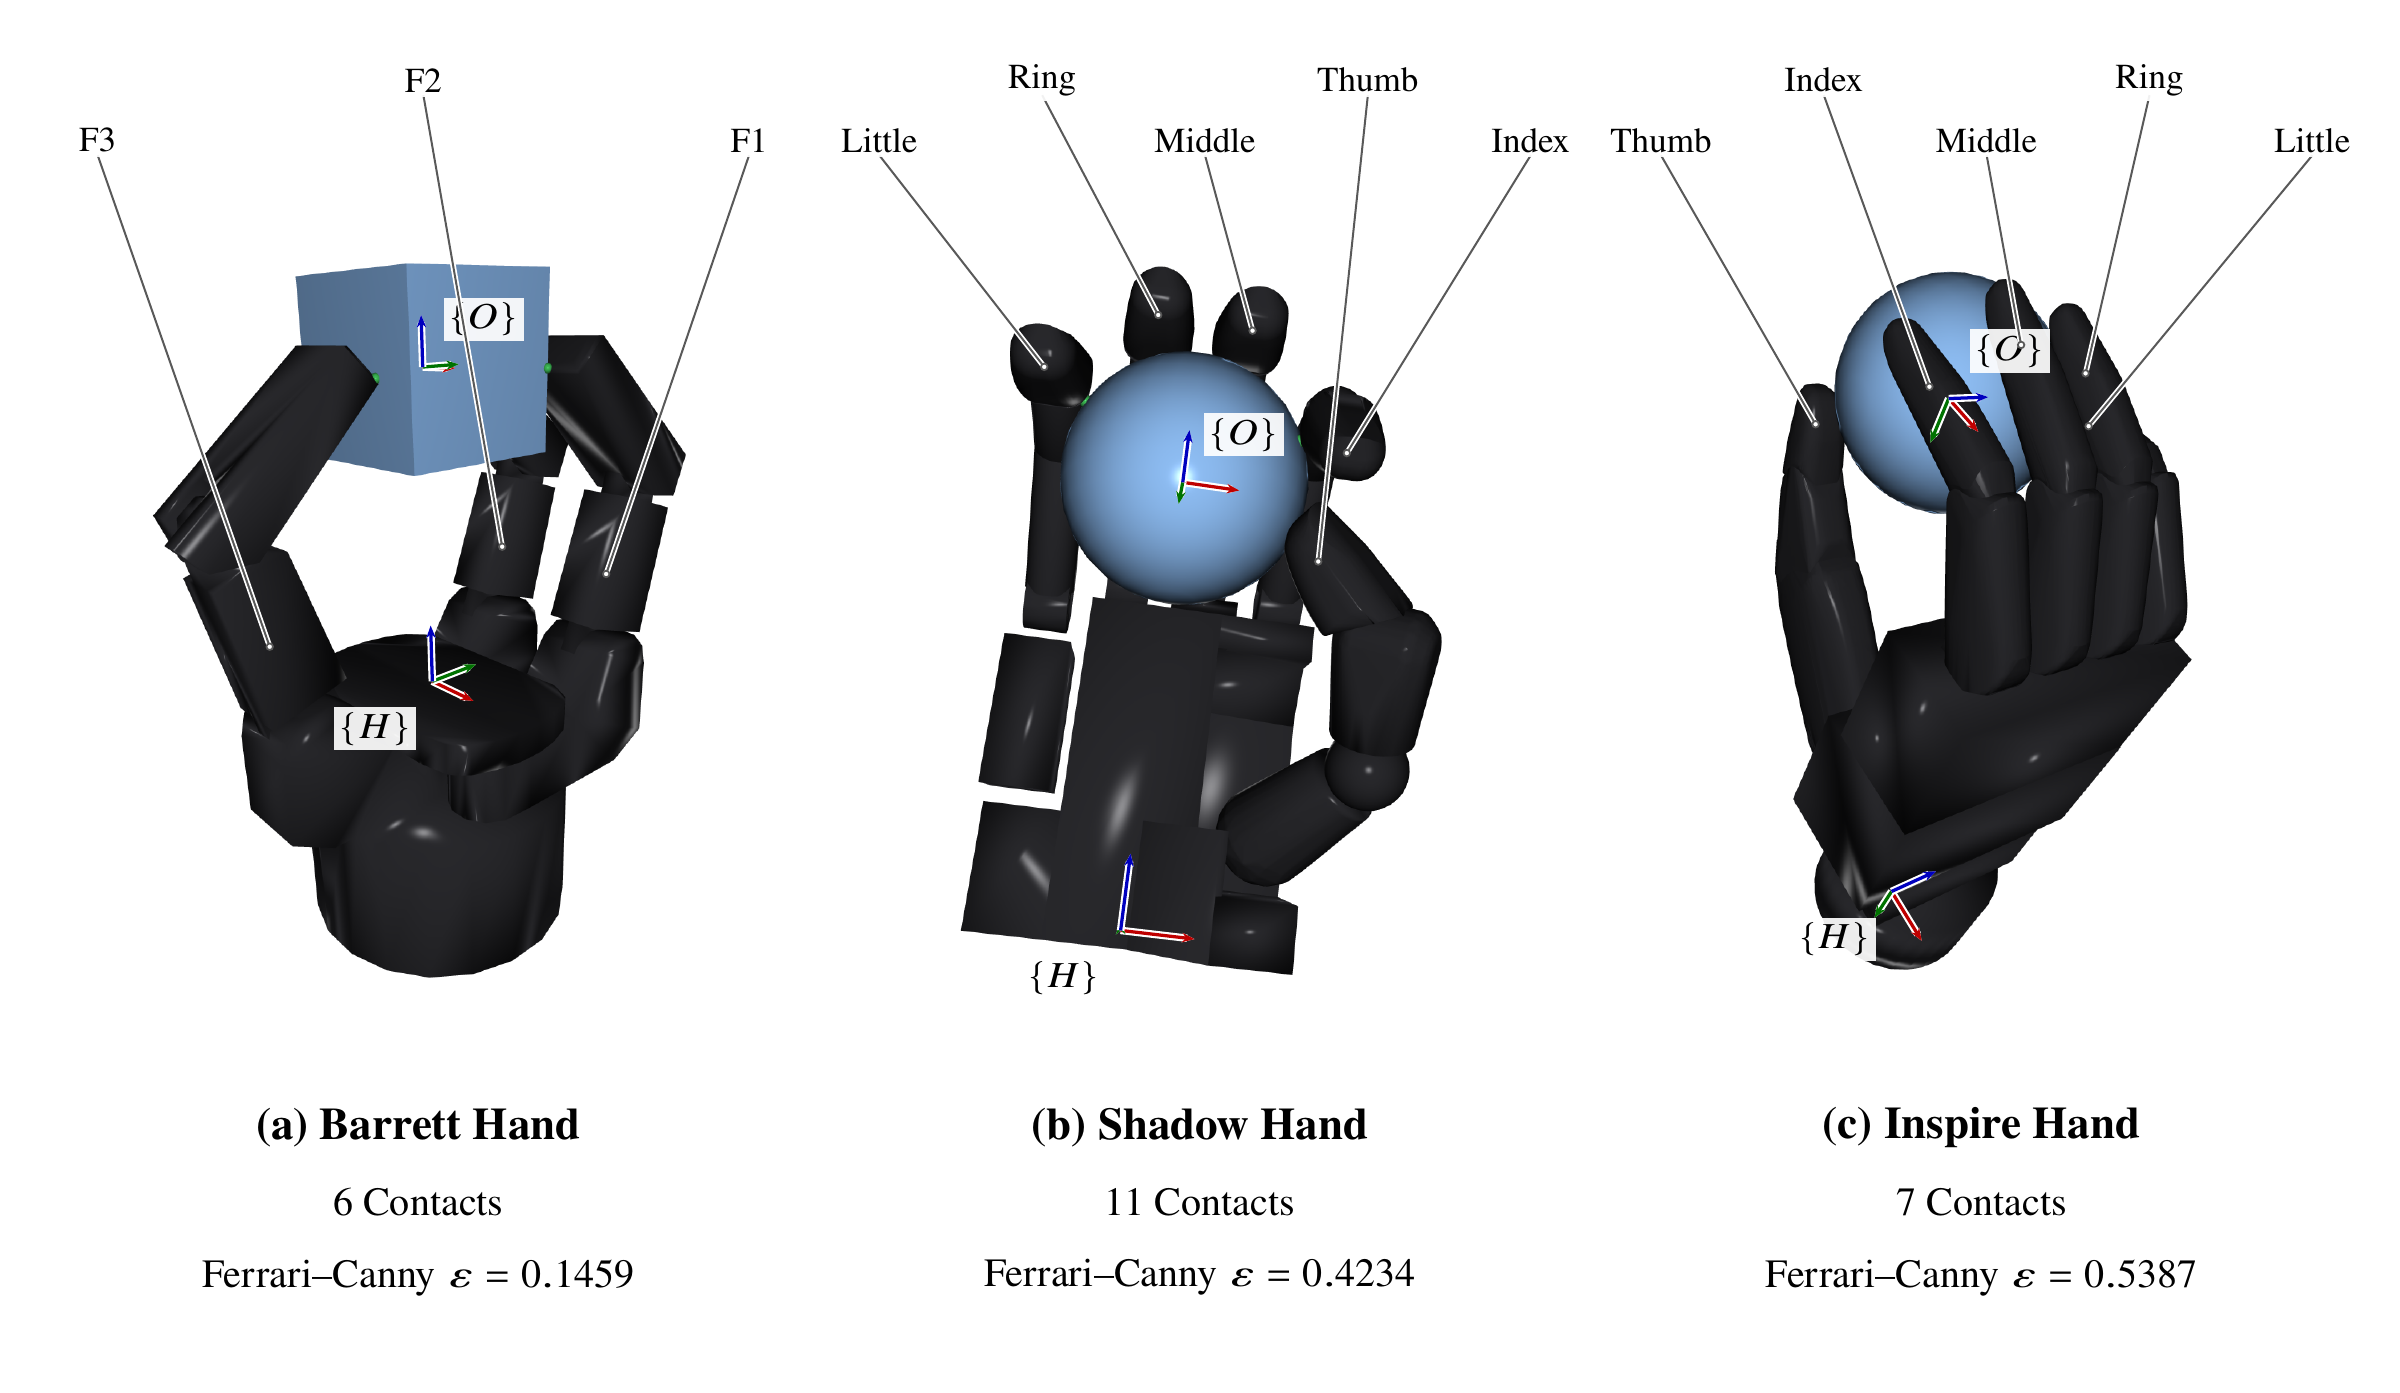
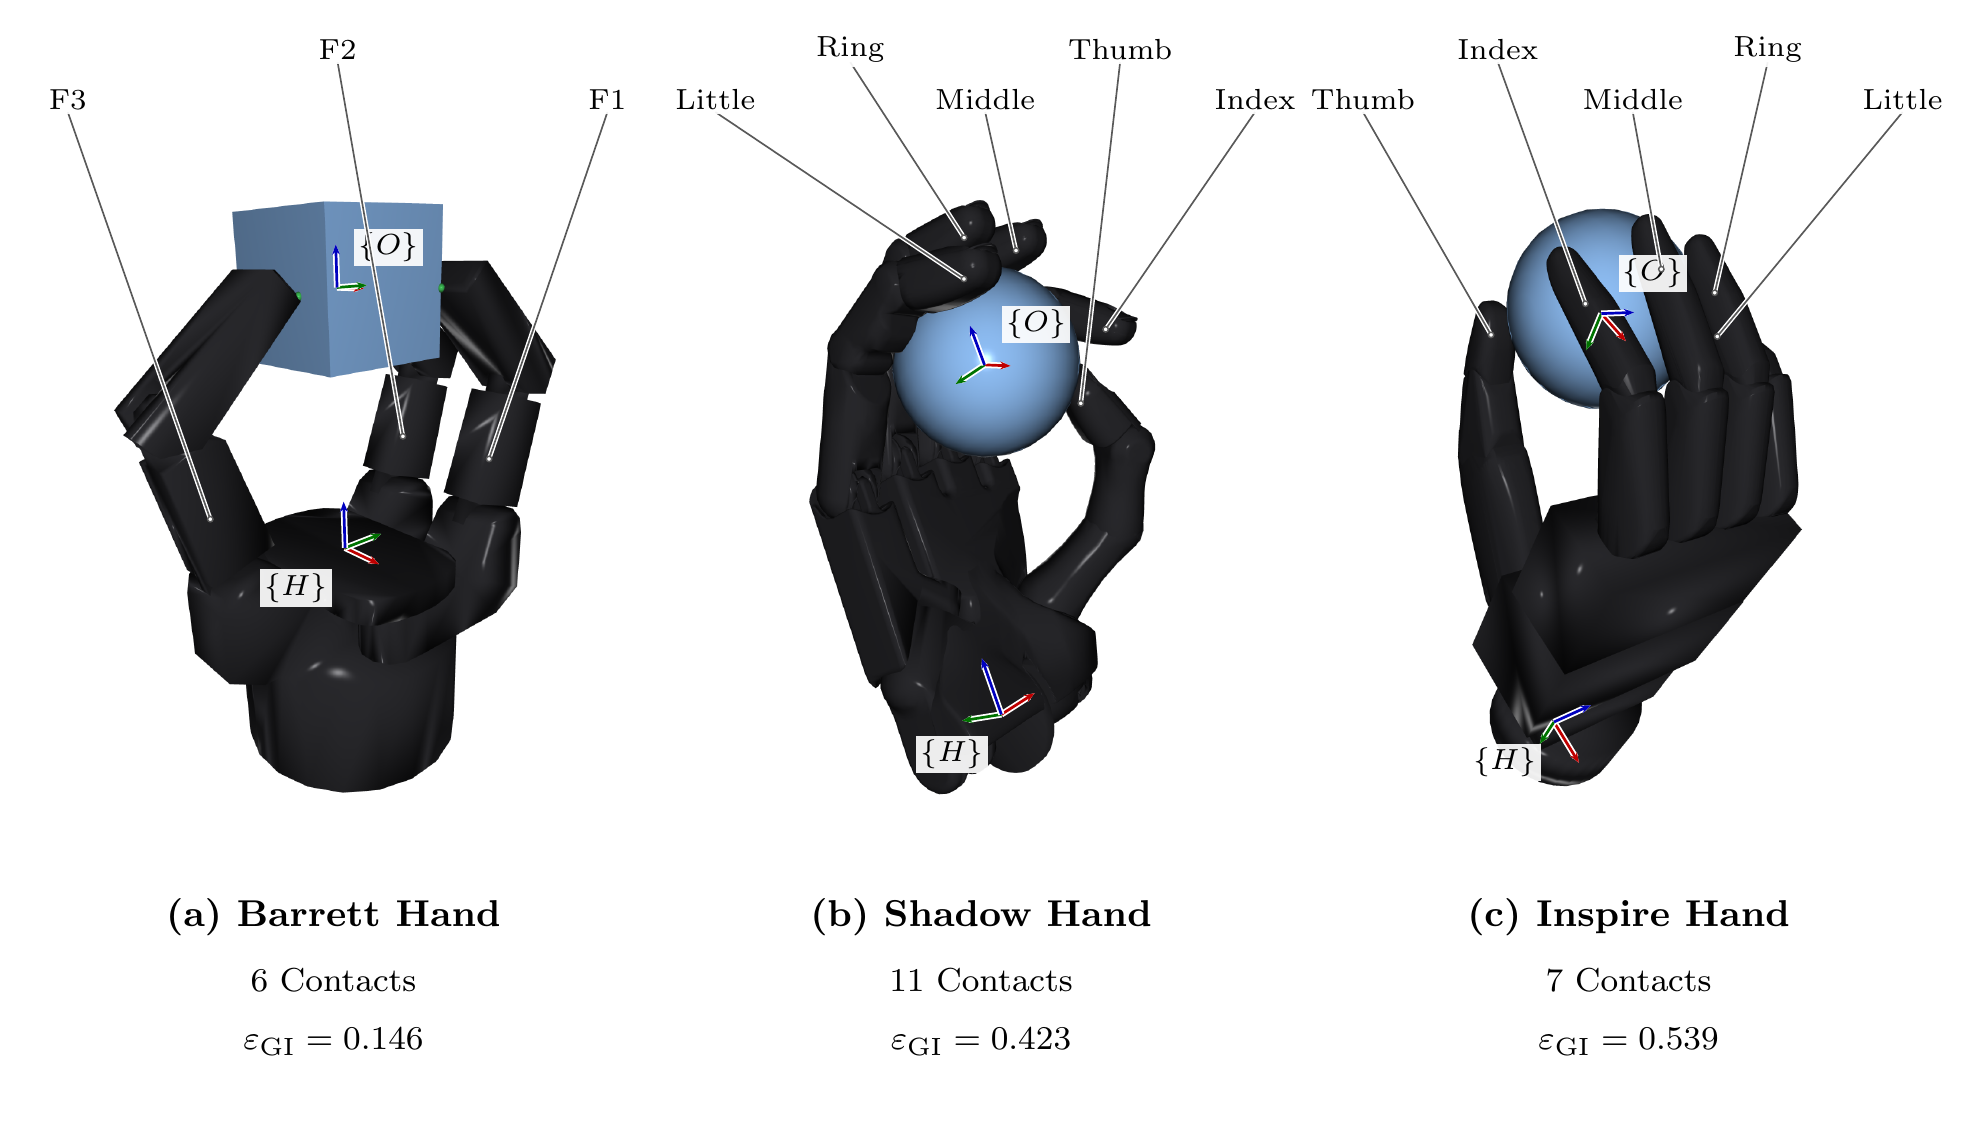
Deploy published site from website-src@ec822579888d5b9f4bd518289c53651ad49b02ca

diff --git a/index.html b/index.html
@@ -129,17 +129,17 @@
               <video class="home-demo-video"
                 src="videos/equidexflow_home_demo.mp4?v=dark-centered-raised-footer-20260918" poster="videos/equidexflow_home_demo_poster.jpg?v=dark-centered-raised-footer-20260918"
                 controls muted playsinline preload="none" aria-label="EquiDexFlow pipeline and hardware demonstrations: grasp prediction, contact-based retargeting to the LEAP Hand, and refinement; grasp renders paired with box, cube, mustard bottle, meat can, cylinder, and tennis-ball hardware executions" controlslist="nodownload"></video>
-              <img class="home-demo-image" data-demo-image src="images/graspit-py-supported-hands.png" alt="GraspIt! grasps with the Barrett, Shadow, and Inspire hands, showing contacts and hand and object coordinate frames" loading="lazy" decoding="async" hidden>
+              <img class="home-demo-image" data-demo-image src="images/graspit-py-supported-hands.png?v=ff6b2540e51e" alt="Barrett, Shadow, and Inspire grasp configurations with labeled fingers and hand and object coordinate frames" loading="lazy" decoding="async" hidden>
             </div>
             <div class="home-demo-chapters" role="group" aria-label="Grasp Planning Demonstrations" hidden>
               <button type="button" data-demo-source="videos/equidexflow_home_demo.mp4?v=dark-centered-raised-footer-20260918" data-demo-poster="videos/equidexflow_home_demo_poster.jpg?v=dark-centered-raised-footer-20260918" data-demo-duration="18.4" aria-pressed="true">EquiDexFlow</button>
               <button id="dexreach-home-demo" type="button" data-demo-start-chapter="1" data-demo-source="videos/dexreach_overview.mp4?v=a0368a940d2b" data-demo-poster="videos/dexreach_overview_poster.jpg?v=ee196aa75078" data-demo-duration="60.933333" aria-pressed="false">DexReach</button>
-              <button id="graspit-py-home-demo" type="button" data-demo-start-chapter="2" data-demo-type="image" data-demo-source="images/graspit-py-supported-hands.png" data-demo-alt="GraspIt! grasps with the Barrett, Shadow, and Inspire hands, showing contacts and hand and object coordinate frames" data-demo-duration="12" aria-pressed="false">graspit-py</button>
+              <button id="graspit-py-home-demo" type="button" data-demo-start-chapter="2" data-demo-type="image" data-demo-source="images/graspit-py-supported-hands.png?v=ff6b2540e51e" data-demo-alt="Barrett, Shadow, and Inspire grasp configurations with labeled fingers and hand and object coordinate frames" data-demo-duration="12" aria-pressed="false">graspit-py</button>
             </div>
             <figcaption>
               <span data-demo-chapter="0" data-demo-caption-start="0">SE(3)-Equivariant, Reach-Aware Grasp Synthesis · <a href="equidexflow/#grasp-synthesis-and-hardware-execution">EquiDexFlow Project Page</a></span>
               <span data-demo-chapter="1" data-demo-caption-start="0" hidden>GPU-Accelerated Whole-Body Grasp and Manipulation Planning · <a href="dexreach/">DexReach Project Page</a><br>Built on <a href="https://github.com/NVlabs/curobo" target="_blank" rel="noopener">cuRobo</a>. Isaac Lab demonstrations with Franka-Ability and dual Franka-Ability, xArm7–LEAP pick-and-place, and G1–Dex3 box grasping and lifting.</span>
-              <span data-demo-chapter="2" data-demo-caption-start="0" hidden>Grasp Synthesis and Evaluation with graspit-py · <a href="https://clintonenwerem.com/graspit-py/">Documentation</a> · <a href="https://github.com/coenwerem/graspit-py" target="_blank" rel="noopener">GitHub</a><br>GraspIt! closures with the Barrett, Shadow, and Inspire hands, including contact locations, coordinate frames, and Ferrari–Canny grasp quality.</span>
+              <span data-demo-chapter="2" data-demo-caption-start="0" hidden>Grasp Synthesis and Evaluation with graspit-py · <a href="https://clintonenwerem.com/graspit-py/">Documentation</a> · <a href="https://github.com/coenwerem/graspit-py" target="_blank" rel="noopener">GitHub</a><br>Barrett, Shadow, and Inspire grasps with labeled fingers, hand/object frames, and GraspIt! Ferrari–Canny grasp-quality scores.</span>
             </figcaption>
           </figure>
           <figure class="home-demo-slide" data-topic="Visuo-Tactile Manipulation">

diff --git a/software.html b/software.html
@@ -70,7 +70,7 @@
             <div class="row align-items-start">
               <div class="col-md-4 col-5">
                 <div class="sw-video">
-                  <img src="images/graspit_python_wrapper_l6.png" alt="GraspIt! planned closure of a RealHand L6 around a blue key" loading="lazy">
+                  <img src="images/graspit-py-supported-hands.png?v=ff6b2540e51e" alt="Barrett, Shadow, and Inspire grasp configurations with labeled fingers and hand and object coordinate frames" loading="lazy">
                 </div>
               </div>
               <div class="col-md-8 col-7 sw-details">
